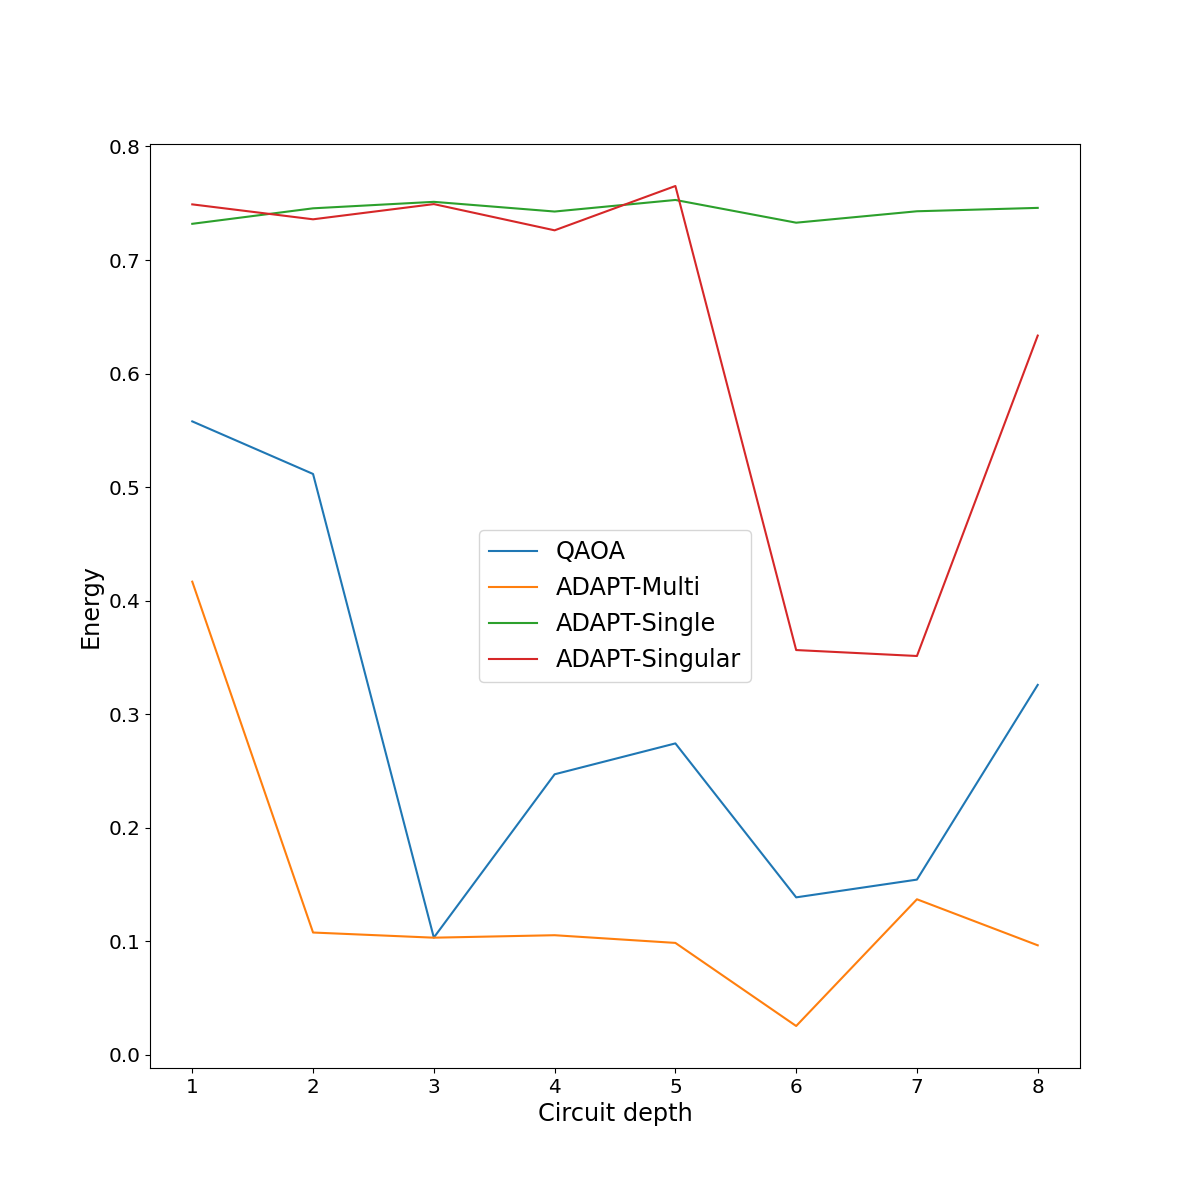
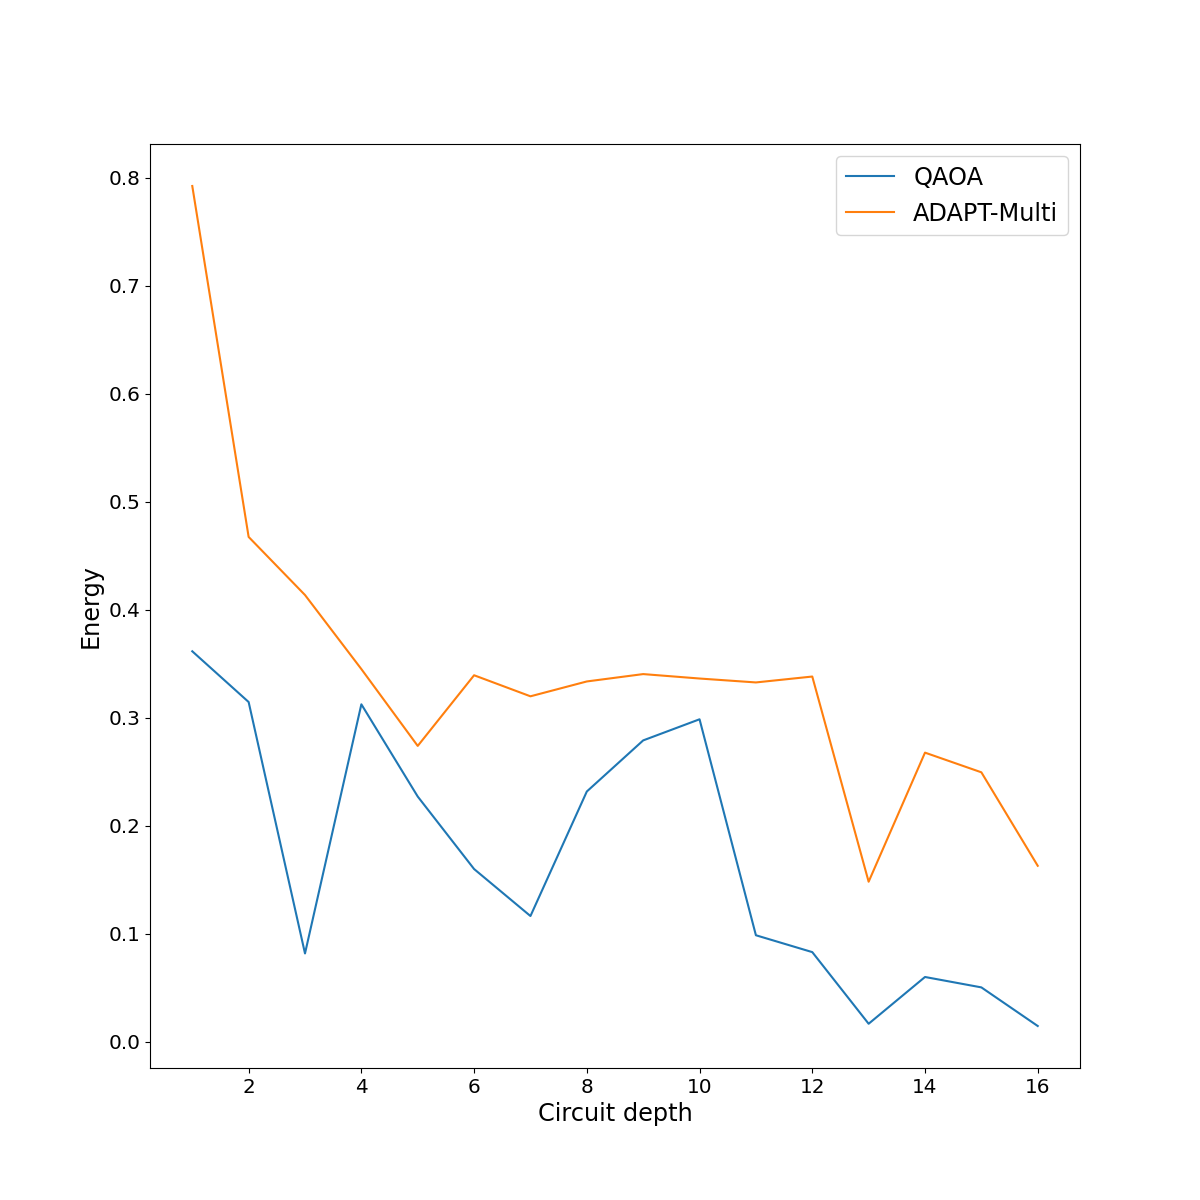
qiskit commutator looks busted. replace it with qutip & see if algorithm works.

diff --git a/qiskit/algorithms/minimum_eigen_solvers/adapt_qaoa.py b/qiskit/algorithms/minimum_eigen_solvers/adapt_qaoa.py
@@ -160,8 +160,8 @@ class AdaptQAOA(QAOA):
             mixer_operator=self.optimal_mixer_list,
             name=self.name,
         )
-        beta_bounds = self._reps * [(-2*np.pi, 2 * np.pi)]
-        gamma_bounds = self._reps * [(-np.pi, np.pi)]
+        beta_bounds = self._reps * [(None,None)]#[(-2*np.pi, 2 * np.pi)]
+        gamma_bounds = self._reps * [(None,None)]#[(-np.pi, np.pi)]
 
         self.ansatz._bounds = beta_bounds + gamma_bounds
 
@@ -194,11 +194,11 @@ class AdaptQAOA(QAOA):
         observable_meas = expectation.convert(StateFn(energy_grad_op, is_measurement=True))
         ansatz_circuit_op = CircuitStateFn(wave_function)
         expect_op = observable_meas.compose(ansatz_circuit_op).reduce()
-        return expect_op
+        return 1j*expect_op
 
     def _test_mixer_pool(self, operator: OperatorBase):
         self._check_problem_configuration(operator)
-        energy_gradients, test_grads = [], []
+        energy_gradients = []
         for mixer in self.mixer_pool:
             expect_op = self.compute_energy_gradient(mixer, operator, ansatz=self.ansatz)
             # run expectation circuit
@@ -206,20 +206,9 @@ class AdaptQAOA(QAOA):
                 expect_op, params=self.hyperparameter_dict
             )
             meas = sampled_expect_op.eval()
-            energy_gradients.append(meas)
-        max_energy_idx = np.argmax(np.abs(energy_gradients))
-        # print("ENERGY GRADIENTS:")
-        # for i in range(len(energy_gradients)):
-        #     print(i, energy_gradients[i])
-        # print()
-        # print()
-        # print("ABS ENERGY GRADEINTS:")
-        # for i in range(len(energy_gradients)):
-        #     print(i, np.abs(energy_gradients[i]))
-        # print()
-        # print()
-        # print("Index of best mixer:", max_energy_idx)
-        return self.mixer_pool[max_energy_idx], np.abs(energy_gradients[max_energy_idx])
+            energy_gradients.append(np.abs(meas))
+        max_energy_idx = np.argmax(energy_gradients)
+        return self.mixer_pool[max_energy_idx], energy_gradients[max_energy_idx]
 
     def compute_minimum_eigenvalue(
         self, operator: OperatorBase, aux_operators: Optional[List[Optional[OperatorBase]]] = None,
@@ -227,14 +216,11 @@ class AdaptQAOA(QAOA):
     ):
         """Runs ADAPT-QAOA for each iteration"""
         self._reps, self.ansatz = 1, self.initial_state  # initialise layer loop counter and ansatz
-        # print("--------------------------------------------------------")
-        # print("Cost operator {}".format(operator))
         result_p = []
         while self._reps < self.max_reps + 1:  # loop over number of maximum reps
             best_mixer, energy_norm = self._test_mixer_pool(operator=operator)
-            # print(best_mixer)
-            # print(f"REPETITION: {self._reps}")
-            # print(f"Current energy norm | Threshold  =====> | {energy_norm} | {self.threshold} |")
+            print(f"REPETITION: {self._reps}")
+            print(f"Current energy norm | Threshold  =====> | {energy_norm} | {self.threshold} |")
             if energy_norm < self.threshold:  # Threshold stoppage condition
                 break
             self.optimal_mixer_list.append(
@@ -246,14 +232,13 @@ class AdaptQAOA(QAOA):
             )
             opt_params = result.optimal_point
             result_p.append(result)
-            # self._update_initial_point()
             self.best_beta = list(np.split(opt_params, 2)[0])
             self.best_gamma = list(np.split(opt_params, 2)[1])
-            # print()
-            # print("Optimal value", result.optimal_value)
-            # print("--------------------------------------------------------")
+            print("Initial point: {}".format(self.initial_point))
+            print("Optimal parameters: {}".format(result.optimal_parameters))
+            print("Optimal value", result.optimal_value)
+            print("--------------------------------------------------------")
             self._reps += 1
-        # print("Optimal mixers:", self.optimal_mixer_list)
         if iter_results:
             return result, result_p
         return result
@@ -374,7 +359,7 @@ class AdaptQAOA(QAOA):
         Raises:
             AttributeError: If the initial points doesnt match 2x the depth.
         """
-        if not initial_point:
+        if initial_point is None:
             self._user_specified_ip = None
             initial_point = self._generate_initial_point()
         else:
@@ -398,7 +383,7 @@ class AdaptQAOA(QAOA):
 
     def _update_initial_point(self):
         ordered_initial_points = np.zeros(2*self._reps)
-        if self._user_specified_ip:
+        if self._user_specified_ip is not None:
             ordered_initial_points[:self._reps] = self._user_specified_ip[:self.max_reps][:self._reps]
             ordered_initial_points[self._reps:] = self._user_specified_ip[self.max_reps:][:self._reps]
         else:
@@ -441,7 +426,7 @@ def adapt_mixer_pool(
         else:
             raise ValueError(
                 "Unrecognised mixer pool type {}, modify this input to the available presets"
-                " 'single', 'singular' or 'multi'."
+                " 'Single', 'Singular' or 'Multi'."
             )
 
     # always include the all x's:

diff --git a/test_script.py b/test_script.py
@@ -8,46 +8,44 @@ from qiskit.algorithms.optimizers import NELDER_MEAD
 from max_cut import max_cut_hamiltonian
 
 def extend_initial_points(max_reps, gamma_0 = 0.01, beta_0 = np.pi/4):
-    return [beta_0]*max_reps+[gamma_0]*max_reps
+    return [beta_0+1000*np.pi]*max_reps+[gamma_0+1000*np.pi]*max_reps
 
+def rand_ip(max_reps):
+    from qiskit.utils import algorithm_globals
+    return list(algorithm_globals.random.uniform(2*max_reps*[-2000 * np.pi], 2*max_reps*[2000 * np.pi]))
+max_reps = 16
 D, nq = 3, 4
 cost_op = max_cut_hamiltonian(D=D, nq=nq)
 gs_energy = min(np.real(np.linalg.eig(cost_op.to_matrix())[0]))
+init_pt = extend_initial_points(max_reps=max_reps)
 quantum_instance = QuantumInstance(Aer.get_backend('qasm_simulator'), shots=1024)
 optimiser = NELDER_MEAD()
-max_reps = 8
-# adaptqaoa = AdaptQAOA(max_reps=max_reps, quantum_instance=quantum_instance,mixer_pool=[X^I^I^I + ^X^I^I + X^I^I^I ],
-#                         optimizer=optimiser, threshold=0)#,
 "--------------------------------------------------------------"
 "run adapt"
 "--------------------------------------------------------------"
-import copy
-adapt_vals_dict = {'Multi':0, 'Single':0, 'Singular':0}
-adapt_val_dict = copy.copy(adapt_vals_dict)
+adapt_vals_dict = {'Multi':0}#, 'Single':0, 'Singular':0}
 for mt in adapt_vals_dict.keys():
     print("Running adapt with mixer pool type {}".format(mt))
-    adaptqaoa = AdaptQAOA(max_reps=max_reps, quantum_instance=quantum_instance,mixer_pool_type=mt, optimizer=optimiser, threshold=0,
-                            initial_point=extend_initial_points(max_reps=max_reps))
+    adaptqaoa = AdaptQAOA(max_reps=max_reps, quantum_instance=quantum_instance,mixer_pool_type=mt, 
+                            optimizer=optimiser, threshold=0,initial_point=init_pt)
     final_result, total_results = adaptqaoa.compute_minimum_eigenvalue(cost_op, iter_results = True)
     adapt_depth = len(total_results)
     adapt_vals_dict[mt] = [(total_results[i].optimal_value-gs_energy) for i in range(adapt_depth)]
-    adapt_val_dict[mt] = adaptqaoa.initial_point
 
-# "--------------------------------------------------------------"
-# "now run regular qaoa over the maximum number of iterations!!!!"
-# "--------------------------------------------------------------"
-# print("Beginning QAOA experiment up to circuit depth {}".format(adapt_depth))
-# ad_ip = adapt_val_dict[min(adapt_vals_dict)]
-# init_beta = ad_ip[:max_reps+1]
-# init_gamma = ad_ip[max_reps+1:]
-adapt_depth=2
+"--------------------------------------------------------------"
+"now run regular qaoa over the maximum number of iterations!!!!"
+"--------------------------------------------------------------"
 qaoa_vals = []
 for p in range(1,adapt_depth+1):
-    qaoa = QAOA(reps=p, quantum_instance=quantum_instance, optimizer=optimiser)#, initial_point=np.concatenate((init_beta[:p],init_gamma[:p])))
+    kappa = init_pt[:max_reps][:p]
+    ip = init_pt[:max_reps][:p]+init_pt[max_reps:][:p]
+    qaoa = QAOA(reps=p, quantum_instance=quantum_instance, optimizer=optimiser, initial_point=ip)
     out = qaoa.compute_minimum_eigenvalue(cost_op)
     qaoa_vals.append(out.optimal_value-gs_energy)
-    print("Depth {}:".format(p))
+    print("Depth: {}".format(p))
+    print("Initial point: {}".format(ip))
     print("Optimal value: {}".format(out.optimal_value))
+    print("Optimal parameters: {}".format(out.optimal_parameters))
     print("Relative energy: {}".format(qaoa_vals[-1]))
 
 import matplotlib.pylab as pylab
